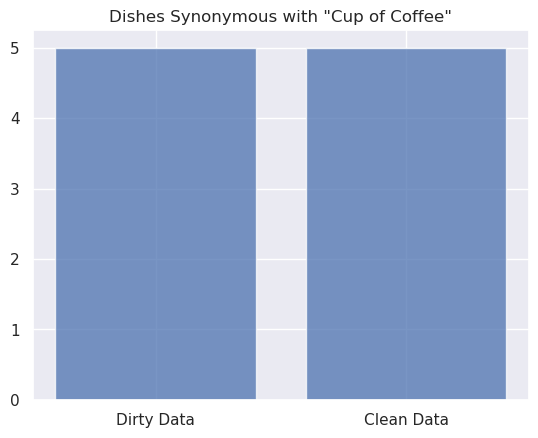
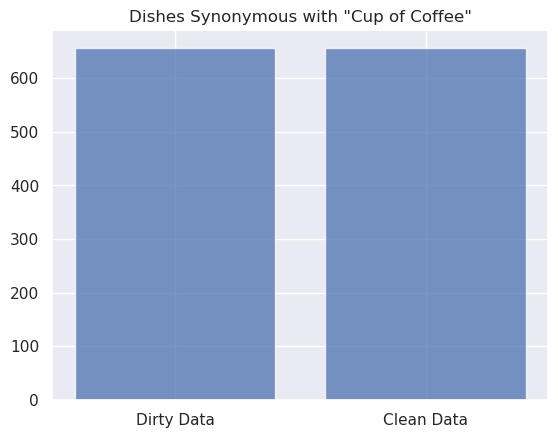
Profile dish name cleaning

diff --git a/src/main.py b/src/main.py
@@ -83,7 +83,7 @@ def profile_menu_data(menu_df: pd.DataFrame) -> List[int]:
 
 @timer
 def profile_dish_data(dish_df: pd.DataFrame) -> int:
-    return 5 #todo: implement
+    return dish_df[dish_df['name'].str.contains(is_cup_of_coffee, na=False)].size
 
 @timer
 def query_data(menu_df: pd.DataFrame, page_df: pd.DataFrame, item_df: pd.DataFrame, dish_df: pd.DataFrame) -> List[float]:
